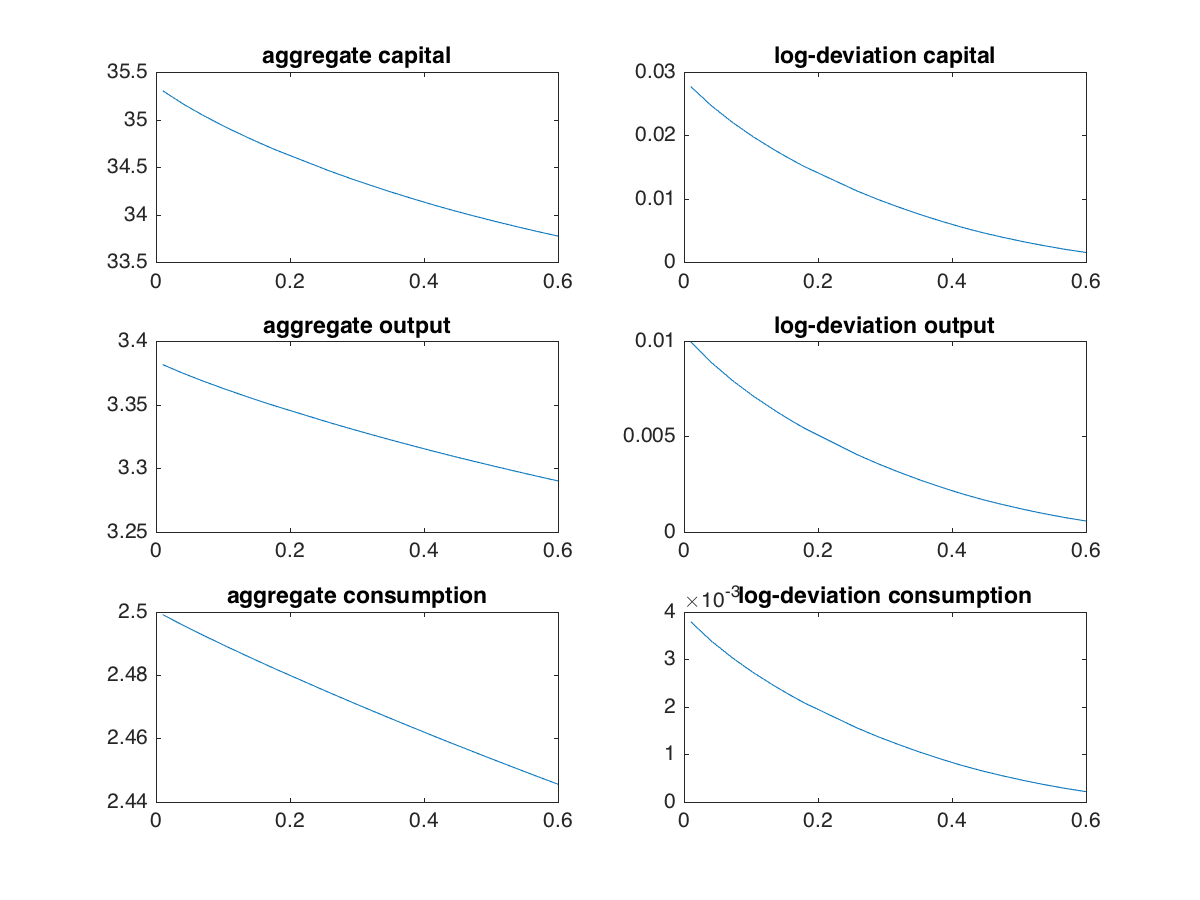
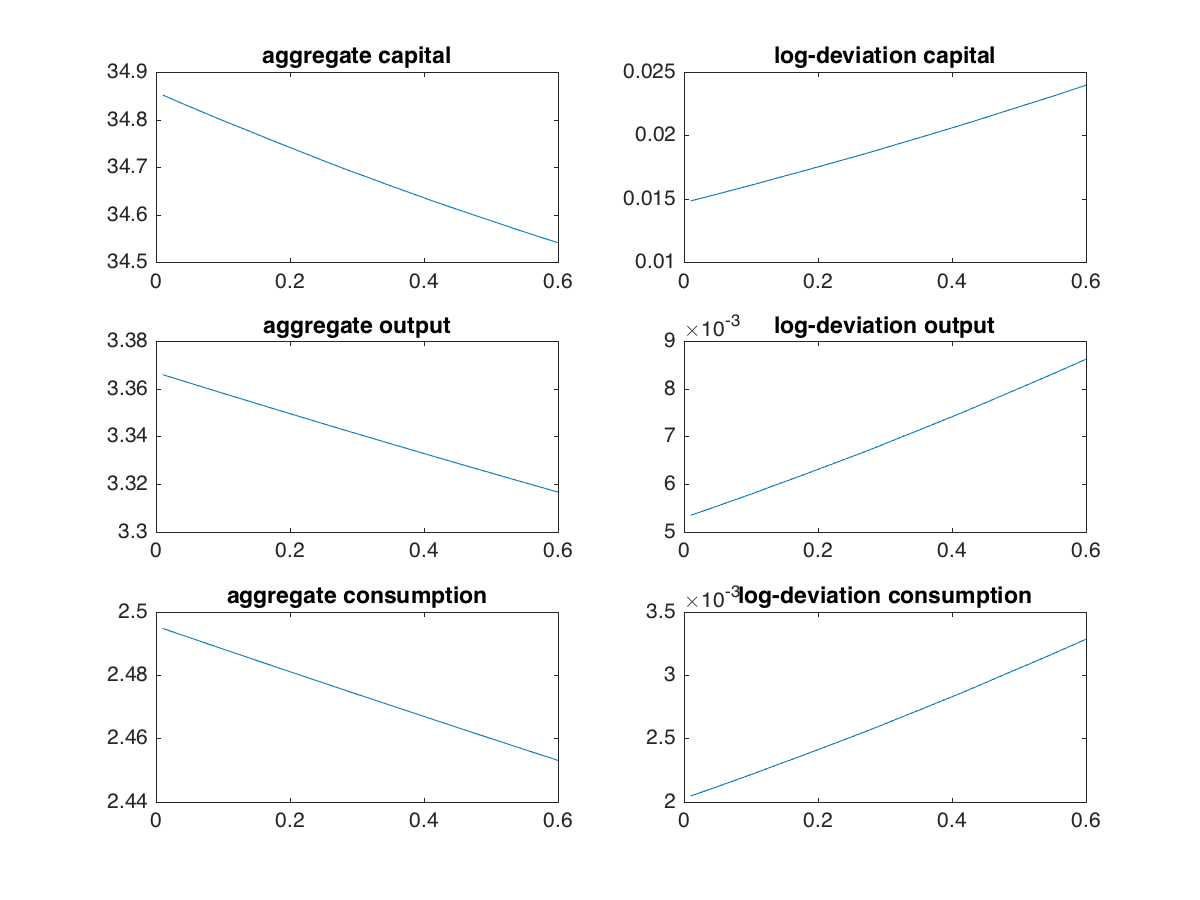
Distribution analysis and transitions only.

diff --git a/plotting_fct.m b/plotting_fct.m
@@ -22,7 +22,7 @@ Mat_moments2 = zeros(2,4,3,3);
 
 parameters % import parameters 
 
-for i = 9:gridpar.no
+for i = 11%:gridpar.no
 tic
 iteration = i
 % loop over different values of parameter you want to analyze 
@@ -41,91 +41,83 @@ iteration = i
         end
 % importing functions and parameters that adapt to new input parameter value             
         setup 
-method.HH = 'FPend'; % Depending on the mu, you might have to change it to 'FP' or 'FPend' to converge
-method.agg = 'bisection'; % Depending on the mu, you might have to change it to 'bisection' or 'bisectio' to converge
+%method.HH = 'FP'; % Depending on the mu, you might have to change it to 'FP' or 'FPend' to converge
+%method.agg = 'bisection'; % Depending on the mu, you might have to change it to 'bisection' or 'bisectio' to converge
 % calling the problem solving function 
         [k, c, K, sim, store, mat, grid] = aiyagari_solver(par, func, method); 
 
-% % %% Plot distribution of agents
-% if i == 1 || i == 11 || i == 20 %create subplot for each iteration
-%     figure(6+i)
-%     %subplot(1,3,ceil(i/7))
-%     if strcmp(method.sim,'simulation')
-%         temp = sim.k(ceil(par.T/2):end,:);
-%         hist(temp(:),100)
-%         legend('number of agents')
-%     elseif strcmp(method.sim,'histogram')
-%         bar(grid.dist,store.distribution,'stacked')
-%         legend('unemployed','employed')
-%         set(gca,'fontsize',25)
-%         
-%     end
-% % create title matching parameter in question
-% %     if strcmp(method.analysis,'Borrowing Constraint') 
-% %         title(['kmin = ',num2str(par.k_min)]);
-% %     elseif strcmp(method.analysis,'Chance to be Employed')
-% %         title(['PI UE = ',num2str(par.PI_UE)]);
-% %     elseif strcmp(method.analysis,'Unemployment Benefit')
-% %         title(['mu = ',num2str(par.mu)]);
-% %     elseif strcmp(method.analysis,'Risk Aversion')
-% %         title(['sigma = ',num2str(par.sigma)]);
-% %     end
+% %% Plot distribution of agents
+    figure(1)
+    if strcmp(method.sim,'simulation')
+        temp = sim.k(ceil(par.T/2):end,:);
+        hist(temp(:),100)
+        legend('number of agents')
+    elseif strcmp(method.sim,'histogram')
+        bar(grid.dist,store.distribution,'stacked')
+        legend('unemployed','employed')
+        %set(gca,'fontsize',25)
+        
+    end
+
 % print(['output/distribution=  ', num2str(i)],'-dpng')
 % 
 % 
 % end
-% %% Calculate and save the moments 
-% 
-% 
-% capital_grid = [transpose(grid.dist) transpose(grid.dist)];
-% distr = store.distribution.*capital_grid;
-% 
-% % calculating the mean [unemployed employed]
-% % note that you need to rescale the probabilities!!!
-% mean_dis = sum(distr).*[1/(1-par.L_target) 1/par.L_target];
-% 
-% sum1 = cumsum(store.distribution(:,1));
-% sum2 = cumsum(store.distribution(:,2));
-% [~, index1]=min(abs(sum1-((sum1(end))/2)));
-% [~, index2]=min(abs(sum2-((sum2(end))/2)));
-% closestValues=sum1(index1);% to check value for unemployed
-% closestValues2 =sum2(index2); % to check value for employed
-% 
-% median_value1 = capital_grid(index1); %using index to get median for unemployed
-% median_value2 = capital_grid(index2);% using index to get median for employed
-% 
-% median_dis = [median_value1 median_value2]; %capital_grid(sum(store.distribution)=<0.5)
-% 
-% std_dis1 =  sqrt(mean((grid.dist - mean_dis(1)).^2)); %the standard deviation of the unemployed
-% std_dis2 =  sqrt(mean((grid.dist - mean_dis(2)).^2)); % standard deviation of the employed 
-% skewness_dis1 = mean(((grid.dist - mean_dis(1))/std_dis1).^3); %skewness of the unemployed
-% skewness_dis2 = mean(((grid.dist - mean_dis(2))/std_dis2).^3); % skewness of the employed 
-% 
-% % store moments
-% %Mat_moments(:,i) = [mean_dis(1) median_dis(1) std_dis1 skewness_dis1 mean_dis(2) median_dis(2) std_dis2 skewness_dis2];
-% % Mat_moments2(:,:,i,ii) = [mean_dis(1) median_dis(1) std_dis1 skewness_dis1;
-% %                           mean_dis(2) median_dis(2) std_dis2 skewness_dis2];
+%% Calculate and save the moments 
+
+
+capital_grid = [transpose(grid.dist) transpose(grid.dist)];
+distr = store.distribution.*capital_grid;
+
+% calculating the mean [unemployed employed]
+% note that you need to rescale the probabilities!!!
+mean_dis = sum(distr).*[1/(1-par.L) 1/par.L];
+
+sum1 = cumsum(store.distribution(:,1));
+sum2 = cumsum(store.distribution(:,2));
+[~, index1]=min(abs(sum1-((sum1(end))/2)));
+[~, index2]=min(abs(sum2-((sum2(end))/2)));
+closestValues=sum1(index1);% to check value for unemployed
+closestValues2 =sum2(index2); % to check value for employed
+
+kept.mean_unemployed = mean_dis(1);
+kept.mean_employed = mean_dis(2);
+kept.median_unemployed = capital_grid(index1); %using index to get median for unemployed
+kept.median_employed = capital_grid(index2);% using index to get median for employed
+kept.std_unemployed =  sqrt(mean((grid.dist - mean_dis(1)).^2)); %the standard deviation of the unemployed
+kept.std_employed =  sqrt(mean((grid.dist - mean_dis(2)).^2)); % standard deviation of the employed 
+kept.skewness_unemployed = mean(((grid.dist - mean_dis(1))/kept.std_unemployed).^3); %skewness of the unemployed
+kept.skewness_employed = mean(((grid.dist - mean_dis(2))/kept.std_employed).^3); % skewness of the employed 
+
+% store moments
+%Mat_moments = [mean_dis(1) median_dis(1) std_dis1 skewness_dis1 mean_dis(2) median_dis(2) std_dis2 skewness_dis2];
+savename = ['moments_transitions_only' num2str(i) '.mat'];
+save(savename, '-struct','kept'); % Save the values
+
+% Mat_moments2(:,:,i,ii) = [mean_dis(1) median_dis(1) std_dis1 skewness_dis1;
+%                           mean_dis(2) median_dis(2) std_dis2 skewness_dis2];
 %               
-%% Calculating Aggregates
-        keep.ag1 = K.guess;
-        keep.ag2 = func.Y(K.guess);
-        keep.ag3 = func.C(K.guess); 
-        keep.w = func.w(K.guess);
-        keep.r = func.r(K.guess);
-        keep.tax = par.tau;
-        keep.labor = par.L;
-        keep.proba1 = par.PI_UE;
-        keep.proba2 = par.PI_EU;
-        keep.dev1= log(K.guess/K.rep);
-        keep.dev2= log(func.Y(K.guess)/func.Y(K.rep));
-        keep.dev3= log(func.C(K.guess)/func.C(K.rep));     
-    
-% saving the values
-        %filename = ['adapting_transitions_mu_parameters' num2str(i) '.mat'];
-        filename = ['baseline_mu_parameters' num2str(i) '.mat'];
-        save (filename, '-struct','keep'); % Save the values
-        %T_mat2(:,i,ii) = [ag1 ag2 ag3 w r tax labor proba1 proba2 dev1 dev2 dev3]; 
-    % end
+% %% Calculating Aggregates
+%         keep.ag1 = K.guess;
+%         keep.ag2 = func.Y(K.guess);
+%         keep.ag3 = func.C(K.guess); 
+%         keep.w = func.w(K.guess);
+%         keep.r = func.r(K.guess);
+%         keep.tax = par.tau;
+%         keep.labor = par.L;
+%         keep.proba1 = par.PI_UE;
+%         keep.proba2 = par.PI_EU;
+%         keep.dev1= log(K.guess/K.rep);
+%         keep.dev2= log(func.Y(K.guess)/func.Y(K.rep));
+%         keep.dev3= log(func.C(K.guess)/func.C(K.rep));     
+%     
+% % saving the values
+%         filename = ['transitions_only' num2str(i) '.mat']
+%         %filename = ['adapting_transitions_mu_parameters' num2str(i) '.mat'];
+%         %filename = ['baseline_mu_parameters' num2str(i) '.mat'];
+%         save (filename, '-struct','keep'); % Save the values
+%         %T_mat2(:,i,ii) = [ag1 ag2 ag3 w r tax labor proba1 proba2 dev1 dev2 dev3]; 
+%     % end
     toc
 end 
 

diff --git a/analysis.m b/analysis.m
@@ -7,7 +7,7 @@ par.ind_no = 100; % number of individuals simulated
 par.T = 100; % number of periods simulated
 
 %% Specify the parameter of interest and their values
-method.analysis = 'Unemployment Benefit'; % specify parameter you want to analyze: 'Borrowing Constraint' for min savings, 'Unemployment Benefit', 'Chance to be Employed','Risk Aversion'
+method.analysis = 'Chance to be Employed'; % specify parameter you want to analyze: 'Borrowing Constraint' for min savings, 'Unemployment Benefit', 'Chance to be Employed','Risk Aversion'
 % par.vals = [0.15,0.25,0.35]; % indicate three parameter values for comparison
 %par.vals2 = [1,2,3]; % for the second analysis, also change a second set of parameters
 

diff --git a/parameters.m b/parameters.m
@@ -17,5 +17,5 @@ par.PI_EU = 0.044444444; % fixed layoff probability at baseline level
 
 % solution methods
 method.HH = 'FP'; % 'FP' for fixed-point iteration in household problem, 'FPend' for using endogenous grid points
-method.sim = 'simulation'; % 'simulation' for simulation, 'histogram' for histogram method
+method.sim = 'histogram'; % 'simulation' for simulation, 'histogram' for histogram method
 method.agg = 'bisectio'; % 'bisection' to use bisection method, gradual updating otherwise

diff --git a/make_graphs.m b/make_graphs.m
@@ -14,7 +14,7 @@ mgrid.mu(8) = 0.18; % the original point does not converge
 
 
 for i=1:gridpar.no
-    filename = ['baseline_mu_parameters' num2str(i) '.mat'];
+    filename = ['transitions_only' num2str(i) '.mat'];
     %filename = ['adapting_transitions_mu_parameters' num2str(i) '.mat']
     ag1(i) = load(filename, 'ag1');
     ag2(i) = load(filename, 'ag2');
